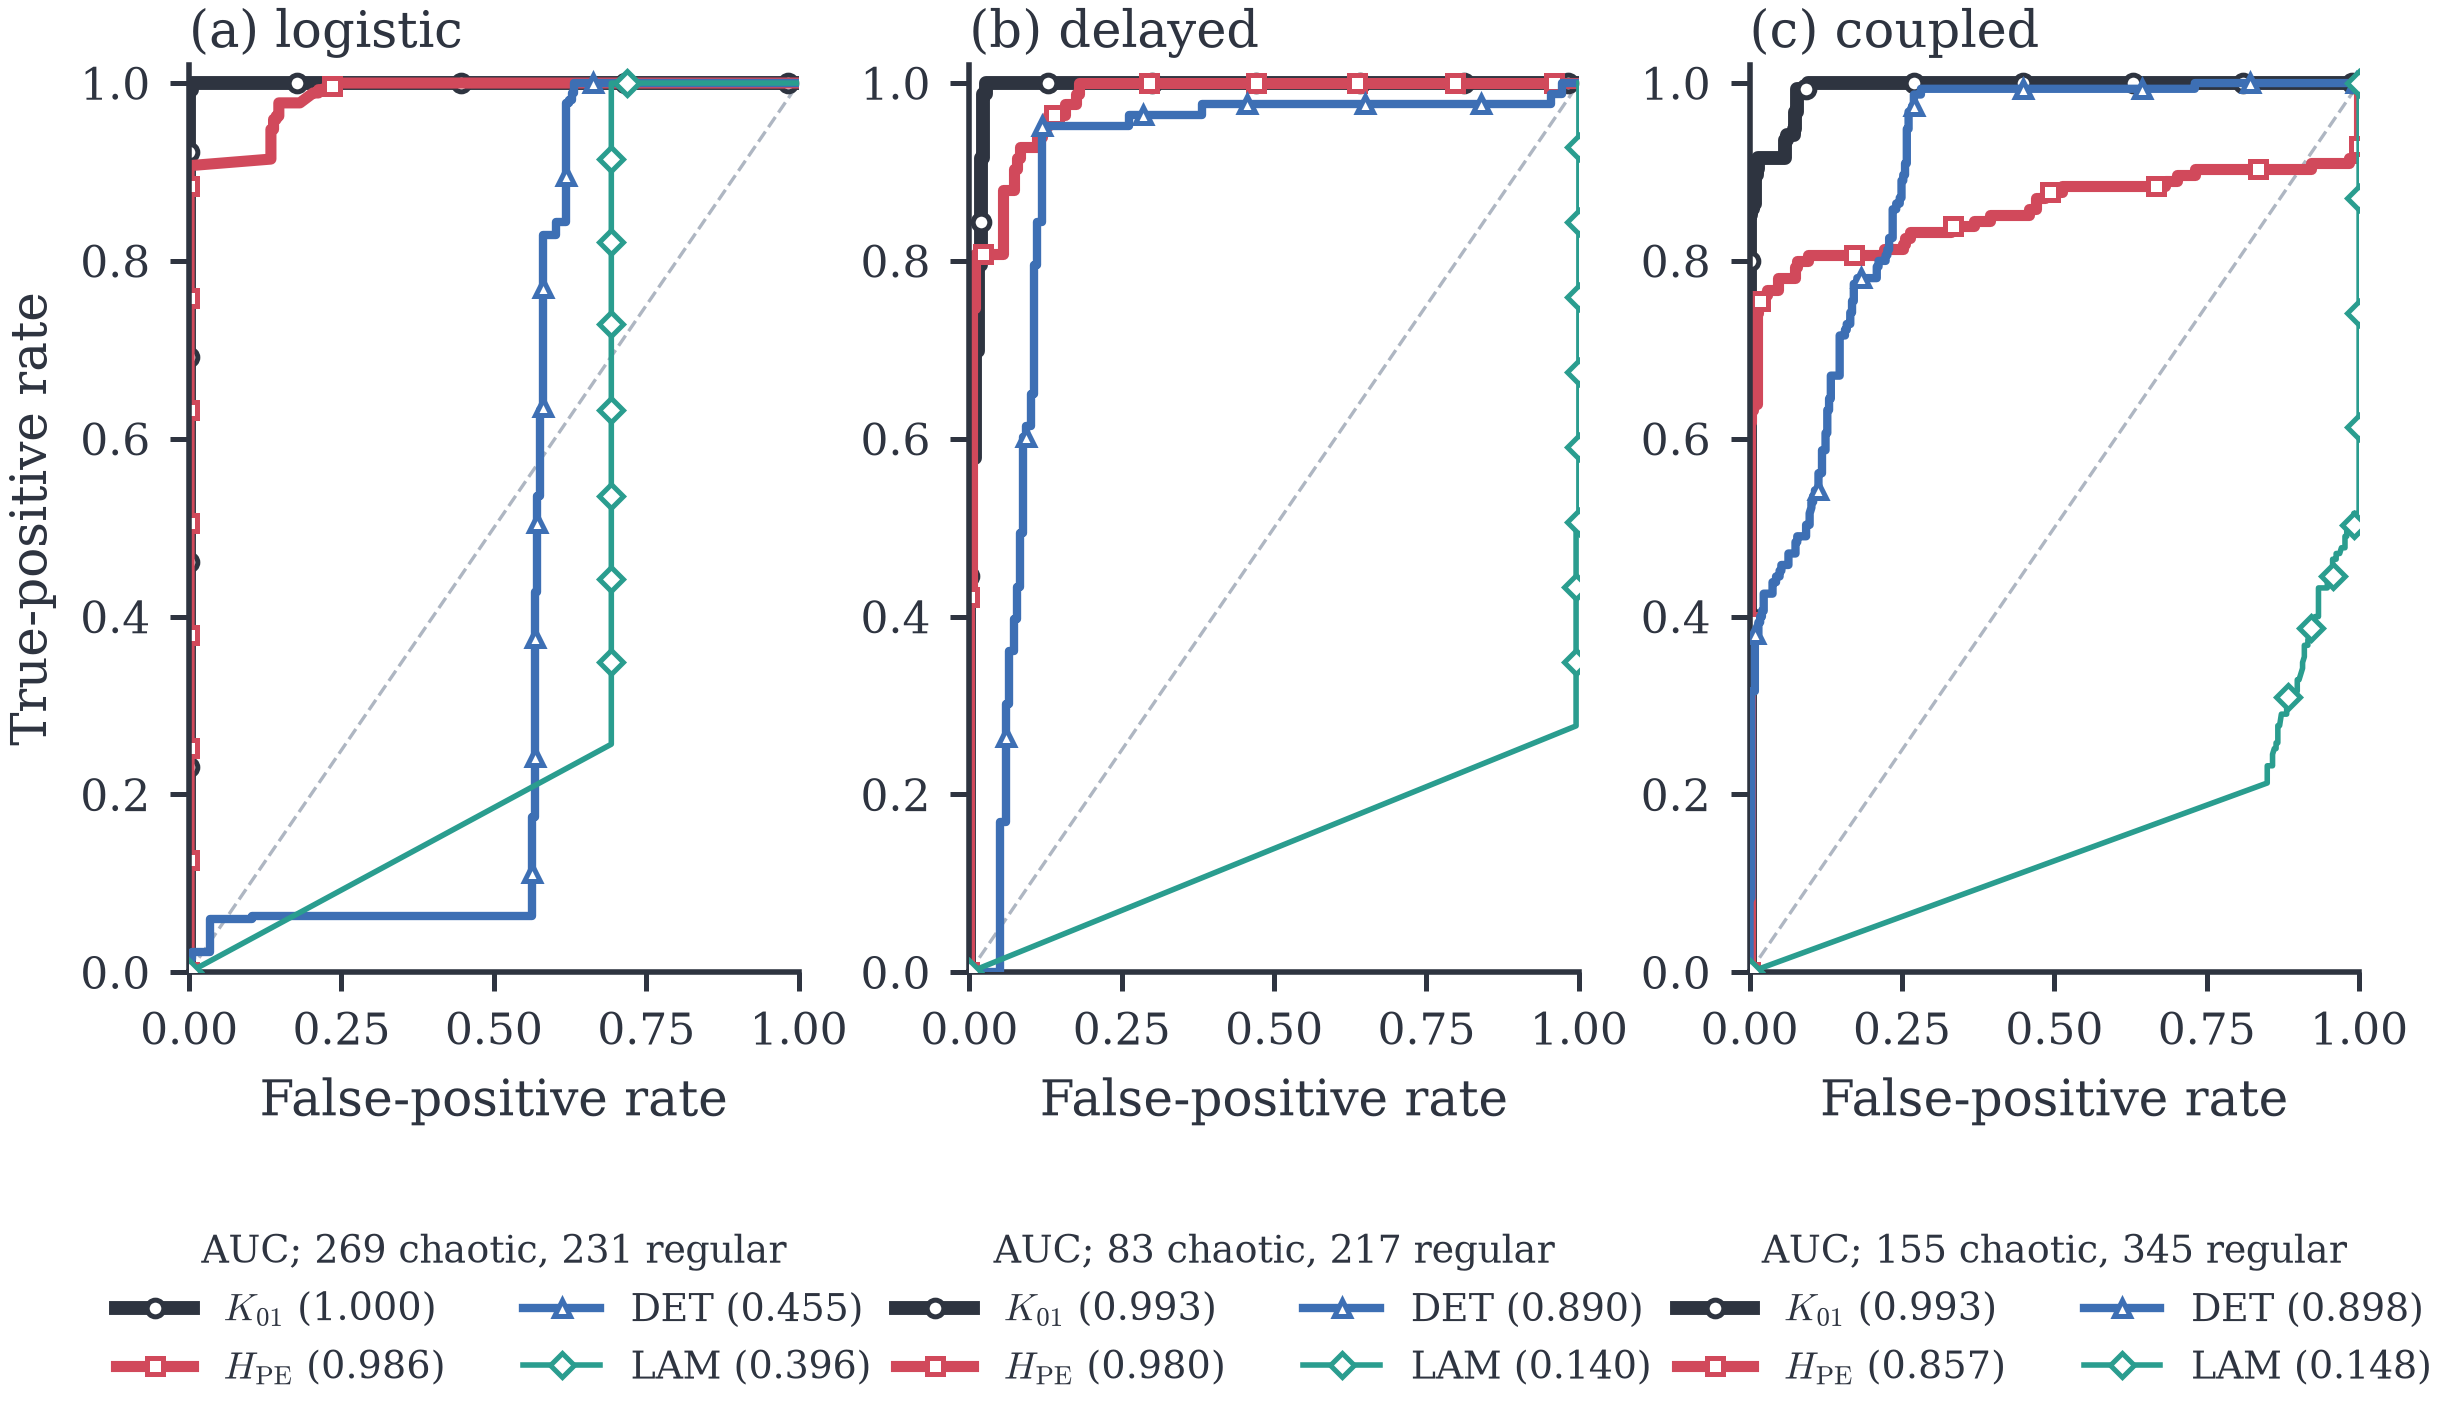
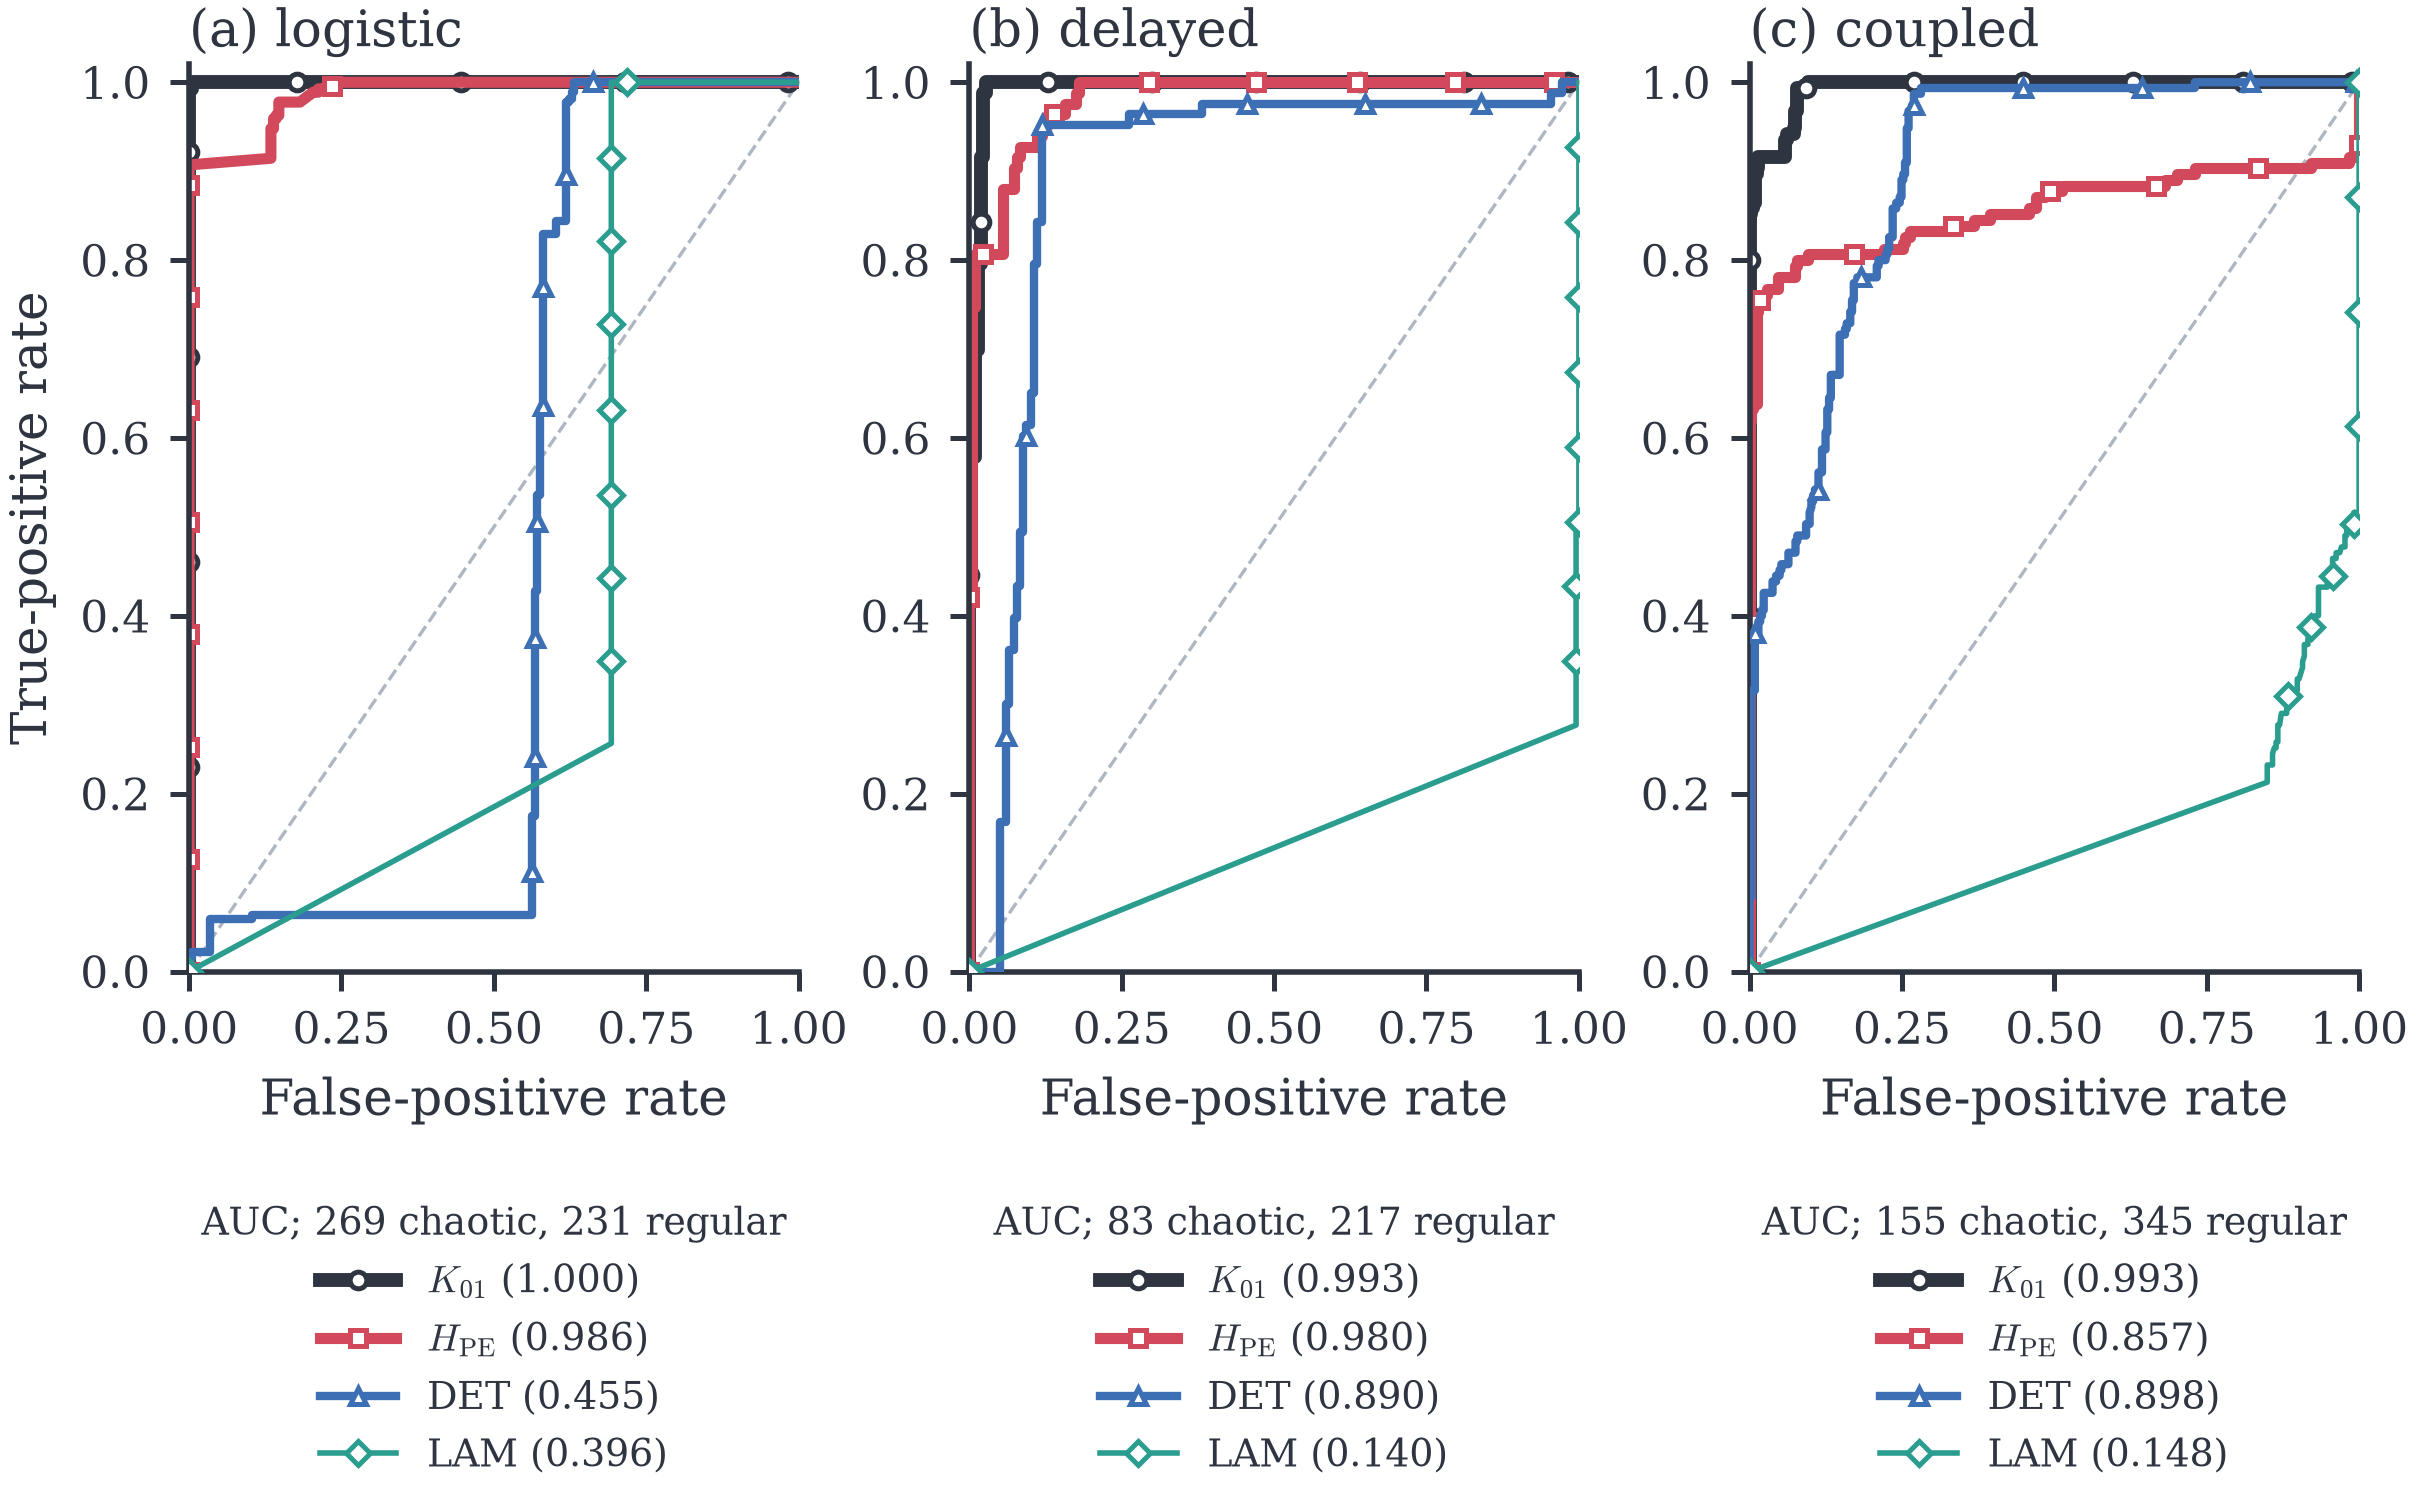
sec11 figures: readable symlog tick labels, one ROC legend per panel
alignment_three_torus: y tick labels read 0, -1, -10, -100 and -10^3 and
below instead of -10^0, -10^1. agreement_roc: each panel has its own
single-column legend, so the three legends no longer touch. Plot code
only; caches unchanged.

Changed region(s): [[0.0, 0.0, 0.9934, 0.9972], [0.6209, 0.187, 0.6519, 0.2181]]

diff --git a/src/dynachaos/diagnostics/alignment_three_torus.py b/src/dynachaos/diagnostics/alignment_three_torus.py
@@ -180,9 +180,18 @@ def compute_alignment(orbits=None, n_transient=None, n_iter=None, seeds=SEEDS):
     print(f"Saved {ALIGN_NPZ}")
 
 
+def _symlog_tick_label(value, _pos):
+    """Plain number for |value| < 1000, signed power of ten above."""
+    if abs(value) < 1000:
+        return f"{value:g}"
+    sign = "-" if value < 0 else ""
+    return rf"${sign}10^{{{int(round(np.log10(abs(value))))}}}$"
+
+
 def plot_alignment(data):
     """Plot log10 of SALI and GALI_2..4 against the iteration number."""
     import matplotlib.pyplot as plt
+    from matplotlib.ticker import FuncFormatter
 
     from dynachaos.utils.style import (
         COLORS,
@@ -222,6 +231,7 @@ def plot_alignment(data):
         ax.set_xscale("log")
         ax.set_yscale("symlog", linthresh=1.0)  # linear for |log10 index| < 1
         ax.set_ylim(top=1.0)
+        ax.yaxis.set_major_formatter(FuncFormatter(_symlog_tick_label))
         ax.set_title(f"({chr(97 + p)}) {name}", loc="left")
         if p >= 2:
             ax.set_xlabel("Iteration $n$")

diff --git a/src/dynachaos/diagnostics/agreement_figure.py b/src/dynachaos/diagnostics/agreement_figure.py
@@ -270,8 +270,8 @@ def plot_agreement(data):
             ax,
             kind="double",
             loc="upper center",
-            bbox_to_anchor=(0.5, -0.25),
-            ncol=2,
+            bbox_to_anchor=(0.5, -0.22),
+            ncol=1,
             title=f"AUC; {n_c} chaotic, {n_r} regular",
             title_fontsize=figure_spec("double").legend_size,
         )
